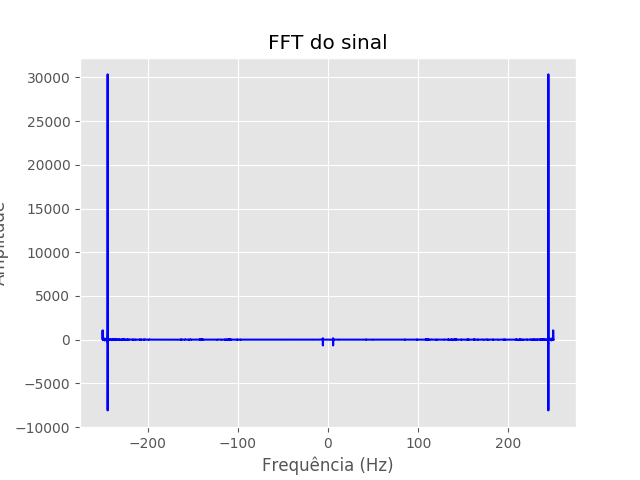
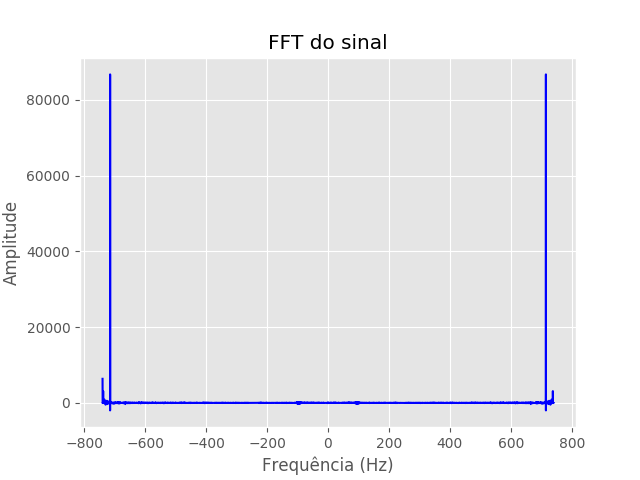
Eye diagram implemented

diff --git a/channel.py b/channel.py
@@ -11,6 +11,7 @@ class Channel():
         self.id = identifier
         self.color = color
         self.signal = signal
+        self.signal *= 26
         self.sample_rate = sample_rate
         self.duration = duration
         self.frequency = self.get_frequency()
@@ -20,13 +21,14 @@ class Channel():
 
     def show(self, save_fig=True):
         # limiting signal by its period
-        y = self.signal[:int(self.get_period()*self.sample_rate/self.duration)].copy()
+        y = self.signal[:int(self.get_period()*self.sample_rate)].copy()
         x = np.linspace(0, self.get_period(), num=len(y))
+        plt.Figure()
         plt.plot(x, y, self.color)
         plt.xlabel("Tempo (s)")
         plt.ylabel("Tensão (mV)")
         plt.title("Sinal no Tempo")
-        plt.ylim(-1.2, 1.2)
+        plt.ylim(-26, 26)
         plt.grid(True)
         if(save_fig):
             plt.savefig('imgs/time_plot.png')
@@ -38,6 +40,7 @@ class Channel():
         # limiting signal by its period
         y = self.signal
         x = np.linspace(0, self.duration, num=len(y))
+        plt.Figure()
         plt.plot(x, y, self.color)
         plt.xlabel("Tempo (s)")
         plt.ylabel("Tensão (mV)")
@@ -52,8 +55,9 @@ class Channel():
 
     def show_scaled(self, save_fig=True):
         # limiting signal by its period
-        y = self.signal[:int(self.get_period()*self.sample_rate/self.duration)].copy()
+        y = self.signal[:int(self.get_period()*self.sample_rate)].copy()
         x = np.linspace(0, self.get_period(), num=len(y))
+        plt.Figure()
         plt.plot(x, y, self.color)
         plt.xlabel("Tempo (s)")
         plt.ylabel("Tensão (mV)")
@@ -64,6 +68,34 @@ class Channel():
             plt.clf()
         else:
             plt.show()
+
+    def eye_diagram(self, save_fig=True):
+        zeros = self.get_zeros()
+        plt.Figure()
+        period = self.get_period()
+        for i in range(len(zeros) - 1):
+            wave = self.signal[zeros[i]:zeros[i+1]]
+            x = np.linspace(0, period, num=len(wave))
+            plt.plot(x, wave, self.color)
+        plt.xlabel("Tempo (s)")
+        plt.ylabel("Tensão (mV)")
+        plt.title("Diagrama de olho")
+        plt.grid(True)
+        if(save_fig):
+            plt.savefig('imgs/eye_plot.png')
+            plt.clf()
+        else:
+            plt.show()
+
+    def get_zeros(self):
+        zeros = []
+        norm_signal = self.signal/26
+        for i in range(len(norm_signal)):
+            if(-0.05 <= norm_signal[i] <= 0.05):
+                zeros.append(i)
+        zeros = np.array(zeros)
+        return zeros
+
     def get_signal(self):
         return self.signal
 
@@ -93,6 +125,7 @@ class Channel():
         histogram, bins = np.histogram(self.signal)
         x = np.linspace(0, len(bins), num=len(histogram))
         if plot:
+            plt.Figure()
             plt.hist(bins)
             plt.title("Histograma")
             plt.grid(True)
@@ -140,6 +173,7 @@ class Channel():
     def plot_fft(self, step=0.1, save_fig=True):
         y = np.fft.fft(self.signal)
         x = np.linspace(-self.frequency, self.frequency, num=len(y))
+        plt.Figure()
         plt.plot(x, y, self.color)
         plt.xlabel("Frequência (Hz)")
         plt.ylabel("Amplitude")

diff --git a/model.py b/model.py
@@ -10,9 +10,9 @@ class model():
         self.gui.txt_freq.setText("Frequência: " + str(self.ctrl.ch.frequency) + " Hz")
         self.gui.txt_per.setText("Período: " + str(1/self.ctrl.ch.frequency) + " s")
         self.gui.txt_rise.setText("Subida: " + str(self.ctrl.ch.compute_rise_time()) + " s")
-        self.gui.txt_vmax.setText("Tensão Máxima: " + str(self.ctrl.ch.get_max()) + " V")
-        self.gui.txt_vmin.setText("Tensão Mínima: " + str(self.ctrl.ch.get_min()) + " V")
-        self.gui.txt_vpic.setText("Tensão Pico a Pico: " + str(self.ctrl.ch.get_peak_to_peak()) + " V")
+        self.gui.txt_vmax.setText("Tensão Máxima: " + str(self.ctrl.ch.get_max()) + " mV")
+        self.gui.txt_vmin.setText("Tensão Mínima: " + str(self.ctrl.ch.get_min()) + " mV")
+        self.gui.txt_vpic.setText("Tensão Pico a Pico: " + str(self.ctrl.ch.get_peak_to_peak()) + " mV")
         self.gui.show()
 
     def show_signal(self):
@@ -42,16 +42,20 @@ class model():
 
     def show_hist(self):
         self.ctrl.show_hist()
-        self.gui.set_image('imgs/histogram.png')        
+        self.gui.set_image('imgs/histogram.png')
+
+    def show_eye(self):
+        self.ctrl.eye_diagram()
+        self.gui.set_image('imgs/eye_plot.png')  
 
     def update(self):
         self.ctrl.update()
         self.gui.txt_freq.setText("Frequência: " + str(self.ctrl.ch.frequency) + " Hz")
         self.gui.txt_per.setText("Período: " + str(1/self.ctrl.ch.frequency) + " s")
         self.gui.txt_rise.setText("Subida: " + str(self.ctrl.ch.compute_rise_time()) + " s")
-        self.gui.txt_vmax.setText("Tensão Máxima: " + str(self.ctrl.ch.get_max()) + " V")
-        self.gui.txt_vmin.setText("Tensão Mínima: " + str(self.ctrl.ch.get_min()) + " V")
-        self.gui.txt_vpic.setText("Tensão Pico a Pico: " + str(self.ctrl.ch.get_peak_to_peak()) + " V")
+        self.gui.txt_vmax.setText("Tensão Máxima: " + str(self.ctrl.ch.get_max()) + " mV")
+        self.gui.txt_vmin.setText("Tensão Mínima: " + str(self.ctrl.ch.get_min()) + " mV")
+        self.gui.txt_vpic.setText("Tensão Pico a Pico: " + str(self.ctrl.ch.get_peak_to_peak()) + " mV")
         self.ctrl.show_signal()
         self.gui.set_image('imgs/time_plot.png')
 
@@ -59,7 +63,6 @@ class model():
         self.gui.create_button("Sinal no tempo", self.show_signal, 715, 50)
         self.gui.create_button("Sinal completo", self.show_all, 715, 100)
         self.gui.create_button("FFT", self.show_fft, 715, 150)
-        self.gui.create_button("Histograma", self.show_hist, 715, 200)
         self.gui.create_button("Auto Scale", self.auto_scale, 865, 50)
-        self.gui.create_button("Tempo Real", self.live_plot, 865, 100)
+        self.gui.create_button("Eye Diagram", self.show_eye, 865, 100)
         self.gui.create_button("Medir Sinal", self.update, 865, 150)

diff --git a/controller.py b/controller.py
@@ -21,7 +21,7 @@ class controller():
         myrecording = np.array(myrecording)
         ch1 = myrecording[:,0]
         ch2 = myrecording[:,1]
-        self.signal = ch1 - ch2
+        self.signal = ch1
         print(myrecording)
         self.ch = Channel(1, 'b-', self.signal, self.RATE, self.duration)
 
@@ -52,6 +52,9 @@ class controller():
     def show_hist(self):
         self.ch.compute_histogram()
 
+    def eye_diagram(self):
+        self.ch.eye_diagram()
+
     def print_max(self):
         max_val = self.ch.get_max()
         print("Max Value:", max_val)
@@ -66,6 +69,7 @@ class controller():
         myrecording = sd.rec(int(self.duration * self.RATE))
         print('Recording...')
         sd.wait()
-        myrecording = np.reshape(myrecording, len(myrecording)*len(myrecording[0]))
-        self.signal = myrecording
+        ch1 = myrecording[:,0]
+        ch2 = myrecording[:,1]
+        self.signal = ch1
         self.ch = Channel(1, 'b-', self.signal, self.RATE, self.duration)
